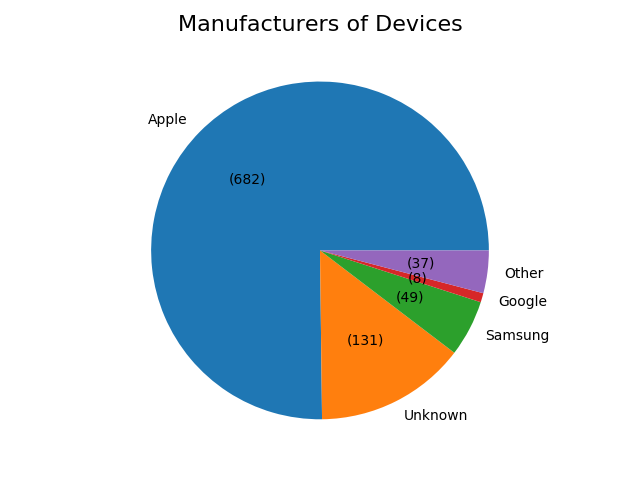
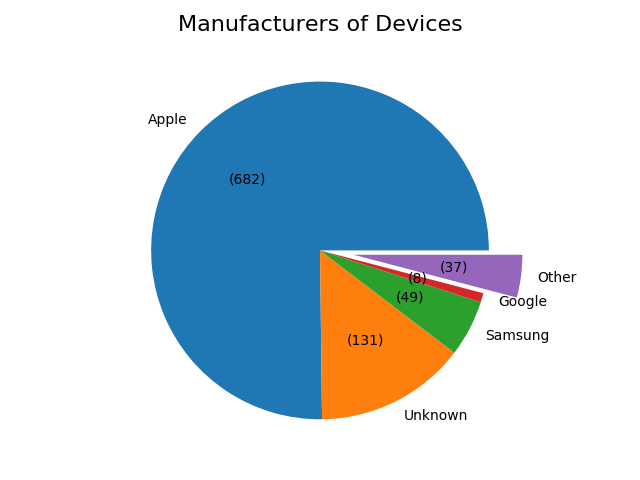
Fixed issues with exploding pie graphs when other is speficied

Changed region(s): [[0.5, 0.5, 0.9062, 0.625]]

diff --git a/process.py b/process.py
@@ -45,7 +45,10 @@ def draw_graph(title,field,other_tolerance,make_other,main_bar,other_bar):
 
 
     if not main_bar:
-        main.plot.pie(autopct = make_autopct(main))
+        if make_other:
+            main.plot.pie(explode = explode, autopct = make_autopct(main))
+        else:  
+            main.plot.pie(autopct = make_autopct(main))
     else:
         plt.subplots(figsize=(8,6))
         main.plot.bar()
@@ -80,6 +83,7 @@ internet_header = pd.DataFrame(data['internet'],index=[0])
 
 
 df = pd.DataFrame(data["devices"])
+device_count = len(df)
 
 name = pd.DataFrame(network_header['name']).iloc[0]['name']
 date = pd.DataFrame(network_header['last_changed']).iloc[0]['last_changed']
@@ -91,7 +95,7 @@ city = pd.DataFrame(internet_header['city']).iloc[0]['city']
 region = pd.DataFrame(internet_header['region']).iloc[0]['region']
 
 
-print("Analysis of devices on network \"" + name +"\" on " + date + ".")
+print("Analysis of " + str(device_count) +" devices on network \"" + name +"\" on " + date + ".")
 print("Internet provided by "+ provider+" located in " + city +", " + region +".")
 
 
